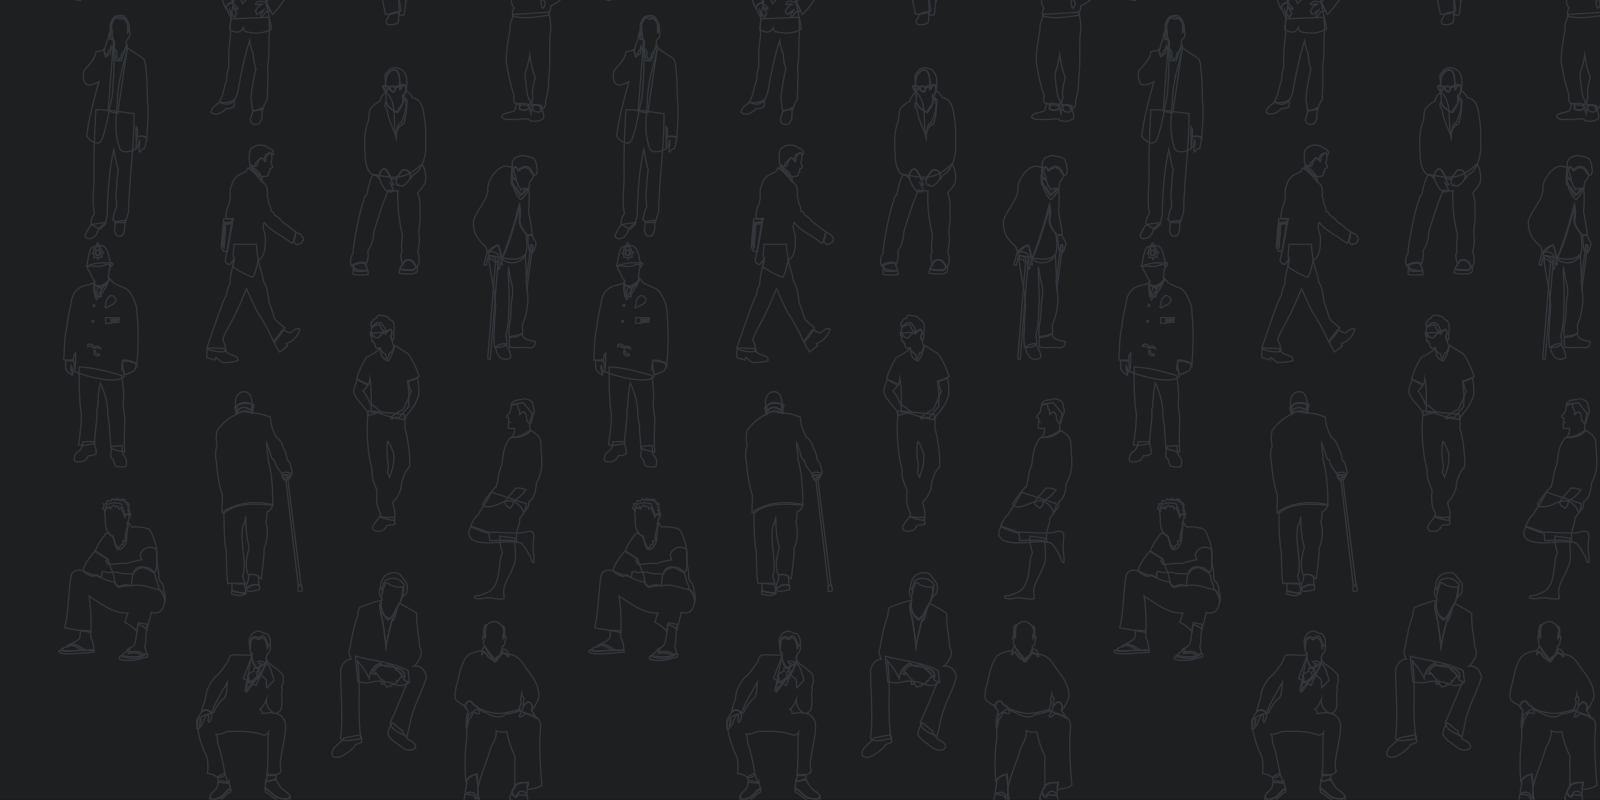
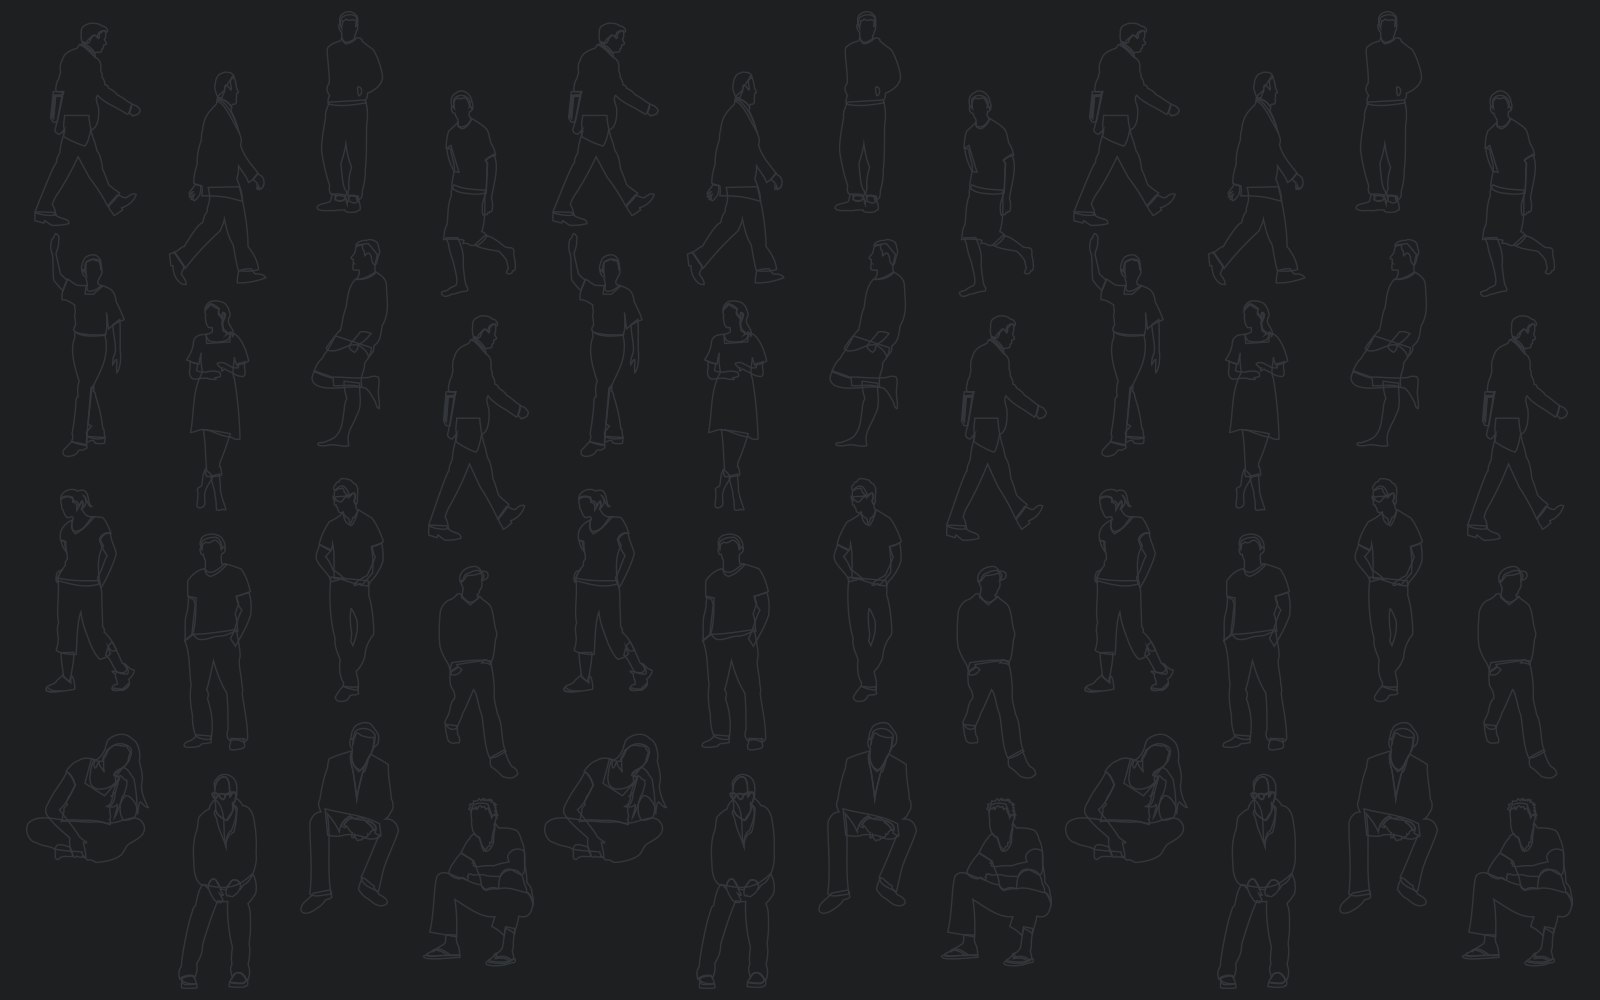
커리어 페이지 배경 이미지 변경 등

diff --git a/css/style.css b/css/style.css
@@ -186,7 +186,7 @@ ol {
   }
   .navbar-custom.is-fixed .navbar-brand:hover,
   .navbar-custom.is-fixed .navbar-brand:focus {
-    color: #0282da;
+    color: #000;
   }
   .navbar-custom.is-fixed .nav li a {
     color: #404040;
@@ -194,7 +194,7 @@ ol {
   }
   .navbar-custom.is-fixed .nav li a:hover,
   .navbar-custom.is-fixed .nav li a:focus {
-    color: #0282da;
+    color: #000;
     opacity: 1;
   }
   .navbar-custom.is-fixed .nav li a.active {
@@ -260,10 +260,6 @@ ol {
   background-repeat: no-repeat;
   background-position: center top;
   background-color: #333;
-  -webkit-background-size: cover;
-  -moz-background-size: cover;
-  background-size: cover;
-  -o-background-size: cover;
   position: relative;
   z-index: 1;
 }
@@ -278,6 +274,10 @@ ol {
   background-color: #30356e;
   background-image: url(../img/about-bg.png);
   background-size: 1800px auto;
+  -webkit-background-size: cover;
+  -moz-background-size: cover;
+  background-size: cover;
+  -o-background-size: cover;
   -webkit-box-shadow: 0 1px 2px 0 rgba(0, 0, 0, 0.25);
   -moz-box-shadow: 0 1px 2px 0 rgba(0, 0, 0, 0.25);
   box-shadow: 0 1px 2px 0 rgba(0, 0, 0, 0.25);
@@ -289,20 +289,26 @@ ol {
 }
 @media only screen and (max-width: 767px) {
   .intro-header.ih-about {
-    background-size: 900px auto;
+    background-size: 700px auto;
   }
 }
 .intro-header.ih-career {
   background-color: #165097;
   background-image: url(../img/career-bg.png);
   background-repeat: repeat-x;
+  background-position: center -80px;
   -webkit-box-shadow: 0 1px 2px 0 rgba(0, 0, 0, 0.25);
   -moz-box-shadow: 0 1px 2px 0 rgba(0, 0, 0, 0.25);
   box-shadow: 0 1px 2px 0 rgba(0, 0, 0, 0.25);
 }
-@media only screen and (max-width : 1024px) {
+@media only screen and (min-width : 768px) and (max-width : 1023px) {
   .intro-header.ih-career {
-    background-size: 1200px auto;
+    background-size: 1400px auto;
+  }
+}
+@media only screen and (max-width: 767px) {
+  .intro-header.ih-career {
+    background-size: 1000px auto;
   }
 }
 .intro-header.ih-contact {
@@ -727,6 +733,11 @@ div.link-to-career .go-to-career:hover {
   text-align: center;
   margin-bottom: 150px;
   font-family: "brandon-grotesque", sans-serif;
+}
+@media only screen and (min-width : 768px) and (max-width : 1023px) {
+  .job-quick-links {
+    margin-bottom: 100px;
+  }
 }
 @media only screen and (max-width: 767px) {
   .job-quick-links {

diff --git a/less/style.less b/less/style.less
@@ -139,7 +139,7 @@ ul, ol {
 				color: @gray-dark;
 				&:hover,
 				&:focus {
-					color: #0282da;
+					color: #000;
 				}
 			}
 			.nav {
@@ -149,7 +149,7 @@ ul, ol {
 						opacity: 0.6;
 						&:hover,
 						&:focus {
-							color: #0282da;
+							color: #000;
 							opacity: 1;
 						}
 						&.active {
@@ -223,7 +223,6 @@ ul, ol {
 	background-repeat: no-repeat;
 	background-position: center top;
 	background-color: #333;
-	.background-cover();
 	position: relative;
 	z-index:1;
 
@@ -236,23 +235,28 @@ ul, ol {
 		background-color: #30356e;
 		background-image: url(../img/about-bg.png);
 		background-size: 1800px auto;
+		.background-cover();
 		.drop-shadow();
 
 		@media @queries_md {
 			background-size: 1600px auto;
 		}
 		@media @queries_sm {
-			background-size: 900px auto;
+			background-size: 700px auto;
 		}
 	}
 	&.ih-career {
 		background-color: #165097;
 		background-image: url(../img/career-bg.png);
 		background-repeat: repeat-x;
+		background-position: center -80px;
 		.drop-shadow();
 
-		@media @queries_lg {
-			background-size: 1200px auto;
+		@media @queries_md {
+			background-size: 1400px auto;
+		}
+		@media @queries_sm {
+			background-size: 1000px auto;
 		}
 		
 	}
@@ -545,7 +549,9 @@ div.link-to-career {
 	text-align: center;
 	margin-bottom: 150px;
 	.brandon-grotesque();
-
+	@media @queries_md {
+		margin-bottom: 100px;
+	}
 	@media @queries_sm {
 		margin-bottom: 50px;
 	}
